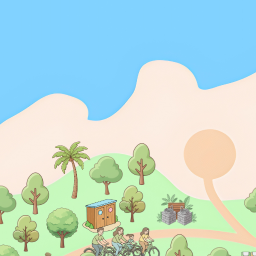
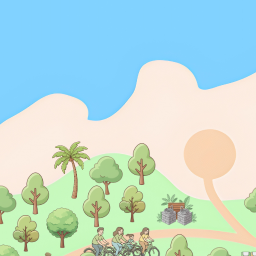
ganti map sama posisi tambah mark

Changed region(s): [[0.3125, 0.7188, 0.4688, 0.9062]]

diff --git a/database/seeders/LanguageLineSeeder.php b/database/seeders/LanguageLineSeeder.php
@@ -491,8 +491,169 @@ class LanguageLineSeeder extends Seeder
                 'id' => 'Lorem ipsum dolor sit amet, consectetur adipisicing elit. Recusandae itaque iste pariatur nobis sint voluptatibus eveniet inventore qui nesciunt adipisci, rem exercitationem necessitatibus dolorem quisquam! Corrupti laudantium dignissimos aliquid officiis, dolorum sapiente laborum laboriosam sed.', 
                 'en' => 'Lorem ipsum dolor sit amet, consectetur adipisicing elit. Recusandae itaque iste pariatur nobis sint voluptatibus eveniet inventore qui nesciunt adipisci, rem exercitationem necessitatibus dolorem quisquam! Corrupti laudantium dignissimos aliquid officiis, dolorum sapiente laborum laboriosam sed.']
         ]);
-        //// Maps
+        
+        // baru
+        LanguageLine::create([
+            'group' => 'spots', 
+            'key' => 'title_spot_10', 
+            'text' => [
+                'id' => 'Toilet', 
+                'en' => 'Toilet']
+        ]);
 
+        LanguageLine::create([
+            'group' => 'spots', 
+            'key' => 'teaser_spot_10', 
+            'text' => [
+                'id' => 'Demi Website Bebas', 
+                'en' => 'Anything for The Website']
+        ]);
+
+        LanguageLine::create([
+            'group' => 'spots', 
+            'key' => 'note_spot_10', 
+            'text' => [
+                'id' => 'bjir tong sampah ada 3 warna', 
+                'en' => 'Sheesh There are three colors of Rubbish bin ']
+        ]);
+
+        LanguageLine::create([
+            'group' => 'spots', 
+            'key' => 'description_spot_10', 
+            'text' => [
+                'id' => 'Lorem ipsum dolor sit amet, consectetur adipisicing elit. Recusandae itaque iste pariatur nobis sint voluptatibus eveniet inventore qui nesciunt adipisci, rem exercitationem necessitatibus dolorem quisquam! Corrupti laudantium dignissimos aliquid officiis, dolorum sapiente laborum laboriosam sed.', 
+                'en' => 'Lorem ipsum dolor sit amet, consectetur adipisicing elit. Recusandae itaque iste pariatur nobis sint voluptatibus eveniet inventore qui nesciunt adipisci, rem exercitationem necessitatibus dolorem quisquam! Corrupti laudantium dignissimos aliquid officiis, dolorum sapiente laborum laboriosam sed.']
+        ]);
+
+        LanguageLine::create([
+            'group' => 'spots', 
+            'key' => 'title_spot_11', 
+            'text' => [
+                'id' => 'Toilet', 
+                'en' => 'Toilet']
+        ]);
+
+        LanguageLine::create([
+            'group' => 'spots', 
+            'key' => 'teaser_spot_11', 
+            'text' => [
+                'id' => 'Demi Website Bebas', 
+                'en' => 'Anything for The Website']
+        ]);
+
+        LanguageLine::create([
+            'group' => 'spots', 
+            'key' => 'note_spot_11', 
+            'text' => [
+                'id' => 'bjir tong sampah ada 3 warna', 
+                'en' => 'Sheesh There are three colors of Rubbish bin ']
+        ]);
+
+        LanguageLine::create([
+            'group' => 'spots', 
+            'key' => 'description_spot_11', 
+            'text' => [
+                'id' => 'Lorem ipsum dolor sit amet, consectetur adipisicing elit. Recusandae itaque iste pariatur nobis sint voluptatibus eveniet inventore qui nesciunt adipisci, rem exercitationem necessitatibus dolorem quisquam! Corrupti laudantium dignissimos aliquid officiis, dolorum sapiente laborum laboriosam sed.', 
+                'en' => 'Lorem ipsum dolor sit amet, consectetur adipisicing elit. Recusandae itaque iste pariatur nobis sint voluptatibus eveniet inventore qui nesciunt adipisci, rem exercitationem necessitatibus dolorem quisquam! Corrupti laudantium dignissimos aliquid officiis, dolorum sapiente laborum laboriosam sed.']
+        ]);
+
+        LanguageLine::create([
+            'group' => 'spots', 
+            'key' => 'title_spot_12', 
+            'text' => [
+                'id' => 'Mesin Penjual Otomatis', 
+                'en' => 'Vending Machine']
+        ]);
+
+        LanguageLine::create([
+            'group' => 'spots', 
+            'key' => 'teaser_spot_12', 
+            'text' => [
+                'id' => 'Demi Website Bebas', 
+                'en' => 'Anything for The Website']
+        ]);
+
+        LanguageLine::create([
+            'group' => 'spots', 
+            'key' => 'note_spot_12', 
+            'text' => [
+                'id' => 'bjir tong sampah ada 3 warna', 
+                'en' => 'Sheesh There are three colors of Rubbish bin ']
+        ]);
+
+        LanguageLine::create([
+            'group' => 'spots', 
+            'key' => 'description_spot_12', 
+            'text' => [
+                'id' => 'Lorem ipsum dolor sit amet, consectetur adipisicing elit. Recusandae itaque iste pariatur nobis sint voluptatibus eveniet inventore qui nesciunt adipisci, rem exercitationem necessitatibus dolorem quisquam! Corrupti laudantium dignissimos aliquid officiis, dolorum sapiente laborum laboriosam sed.', 
+                'en' => 'Lorem ipsum dolor sit amet, consectetur adipisicing elit. Recusandae itaque iste pariatur nobis sint voluptatibus eveniet inventore qui nesciunt adipisci, rem exercitationem necessitatibus dolorem quisquam! Corrupti laudantium dignissimos aliquid officiis, dolorum sapiente laborum laboriosam sed.']
+        ]);
+
+        LanguageLine::create([
+            'group' => 'spots', 
+            'key' => 'title_spot_13', 
+            'text' => [
+                'id' => 'Balebengong', 
+                'en' => 'Balebengong']
+        ]);
+
+        LanguageLine::create([
+            'group' => 'spots', 
+            'key' => 'teaser_spot_13', 
+            'text' => [
+                'id' => 'Demi Website Bebas', 
+                'en' => 'Anything for The Website']
+        ]);
+
+        LanguageLine::create([
+            'group' => 'spots', 
+            'key' => 'note_spot_13', 
+            'text' => [
+                'id' => 'bjir tong sampah ada 3 warna', 
+                'en' => 'Sheesh There are three colors of Rubbish bin ']
+        ]);
+
+        LanguageLine::create([
+            'group' => 'spots', 
+            'key' => 'description_spot_13', 
+            'text' => [
+                'id' => 'Lorem ipsum dolor sit amet, consectetur adipisicing elit. Recusandae itaque iste pariatur nobis sint voluptatibus eveniet inventore qui nesciunt adipisci, rem exercitationem necessitatibus dolorem quisquam! Corrupti laudantium dignissimos aliquid officiis, dolorum sapiente laborum laboriosam sed.', 
+                'en' => 'Lorem ipsum dolor sit amet, consectetur adipisicing elit. Recusandae itaque iste pariatur nobis sint voluptatibus eveniet inventore qui nesciunt adipisci, rem exercitationem necessitatibus dolorem quisquam! Corrupti laudantium dignissimos aliquid officiis, dolorum sapiente laborum laboriosam sed.']
+        ]);
+
+        LanguageLine::create([
+            'group' => 'spots', 
+            'key' => 'title_spot_14', 
+            'text' => [
+                'id' => 'Gapura', 
+                'en' => 'Gateway']
+        ]);
+
+        LanguageLine::create([
+            'group' => 'spots', 
+            'key' => 'teaser_spot_14', 
+            'text' => [
+                'id' => 'Demi Website Bebas', 
+                'en' => 'Anything for The Website']
+        ]);
+
+        LanguageLine::create([
+            'group' => 'spots', 
+            'key' => 'note_spot_14', 
+            'text' => [
+                'id' => 'Untuk memasuki area ini, pengunjung wajib mengenakan pakaian adat atau pakaian yang rapi.', 
+                'en' => 'Visitors must wear appropriate clothing or balinese attire (sarong and sash).']
+        ]);
+
+        LanguageLine::create([
+            'group' => 'spots', 
+            'key' => 'description_spot_14', 
+            'text' => [
+                'id' => 'Lorem ipsum dolor sit amet, consectetur adipisicing elit. Recusandae itaque iste pariatur nobis sint voluptatibus eveniet inventore qui nesciunt adipisci, rem exercitationem necessitatibus dolorem quisquam! Corrupti laudantium dignissimos aliquid officiis, dolorum sapiente laborum laboriosam sed.', 
+                'en' => 'Lorem ipsum dolor sit amet, consectetur adipisicing elit. Recusandae itaque iste pariatur nobis sint voluptatibus eveniet inventore qui nesciunt adipisci, rem exercitationem necessitatibus dolorem quisquam! Corrupti laudantium dignissimos aliquid officiis, dolorum sapiente laborum laboriosam sed.']
+        ]);
+        //// Maps
+        
         // Things to do
         LanguageLine::create([
             'group' => 'things_to_do', 

diff --git a/database/seeders/SpotSeeder.php b/database/seeders/SpotSeeder.php
@@ -14,6 +14,7 @@ class SpotSeeder extends Seeder
     public function run(): void
     {
         Spot::truncate();
+        // 
         Spot::create(
             [
                 'user_id' => 1,'xpos' => '113', 'ypos' => '-56', 'kunci_judul' => 'title_spot_1', 'kunci_teaser' => 'teaser_spot_1', 'url_media' => ["gallery1.jpg", "gallery2.jpg", "gallery3.jpg"], 'kunci_catatan' => 'note_spot_1', 'kunci_keterangan' => 'description_spot_1', 'alt_gambar' => 'The Image of Peninsula Island'
@@ -58,6 +59,36 @@ class SpotSeeder extends Seeder
         Spot::create(
             [
                'user_id' => 1,'xpos' => '105.8', 'ypos' => '-37.5', 'kunci_judul' => 'title_spot_9','kunci_teaser' => 'teaser_spot_9', 'url_media' => ["gallery1.jpg", "gallery2.jpg", "gallery3.jpg"], 'kunci_catatan' => 'note_spot_9', 'kunci_keterangan' => 'description_spot_9', 'alt_gambar' => 'The Image of Peninsula Island'
+            ]
+        );
+        // Toilet 1
+        Spot::create(
+            [
+               'user_id' => 1,'xpos' => '80.8', 'ypos' => '-80', 'kunci_judul' => 'title_spot_10','kunci_teaser' => 'teaser_spot_10', 'url_media' => ["gallery1.jpg", "gallery2.jpg", "gallery3.jpg"], 'kunci_catatan' => 'note_spot_10', 'kunci_keterangan' => 'description_spot_10', 'alt_gambar' => 'The Image of Peninsula Island'
+            ]
+        );
+        // Toilet 2
+        Spot::create(
+            [
+               'user_id' => 1,'xpos' => '109', 'ypos' => '-66.2', 'kunci_judul' => 'title_spot_11','kunci_teaser' => 'teaser_spot_11', 'url_media' => ["gallery1.jpg", "gallery2.jpg", "gallery3.jpg"], 'kunci_catatan' => 'note_spot_11', 'kunci_keterangan' => 'description_spot_11', 'alt_gambar' => 'The Image of Peninsula Island'
+            ]
+        );
+        // Vending Machine
+        Spot::create(
+            [
+               'user_id' => 1,'xpos' => '83.5', 'ypos' => '-78.9', 'kunci_judul' => 'title_spot_12','kunci_teaser' => 'teaser_spot_12', 'url_media' => ["gallery1.jpg", "gallery2.jpg", "gallery3.jpg"], 'kunci_catatan' => 'note_spot_12', 'kunci_keterangan' => 'description_spot_12', 'alt_gambar' => 'The Image of Peninsula Island'
+            ]
+        );
+        // Balebengong
+        Spot::create(
+            [
+               'user_id' => 1,'xpos' => '95.2', 'ypos' => '-54', 'kunci_judul' => 'title_spot_13','kunci_teaser' => 'teaser_spot_13', 'url_media' => ["gallery1.jpg", "gallery2.jpg", "gallery3.jpg"], 'kunci_catatan' => 'note_spot_13', 'kunci_keterangan' => 'description_spot_13', 'alt_gambar' => 'The Image of Peninsula Island'
+            ]
+        );
+        //Gapura
+        Spot::create(
+            [
+               'user_id' => 1,'xpos' => '91.8', 'ypos' => '-78.5', 'kunci_judul' => 'title_spot_14','kunci_teaser' => 'teaser_spot_14', 'url_media' => ["gallery1.jpg", "gallery2.jpg", "gallery3.jpg"], 'kunci_catatan' => 'note_spot_14', 'kunci_keterangan' => 'description_spot_14', 'alt_gambar' => 'The Image of Peninsula Island'
             ]
         );
     }
